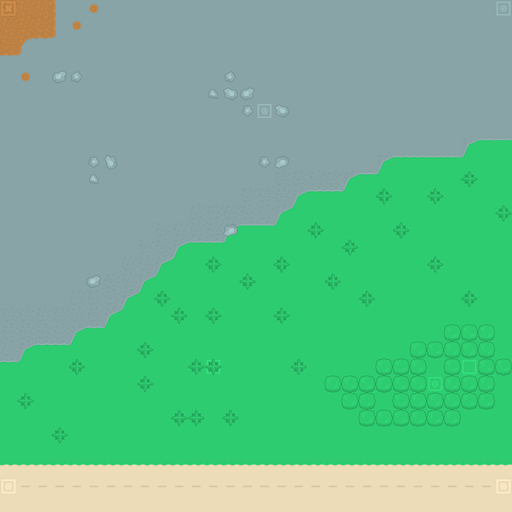
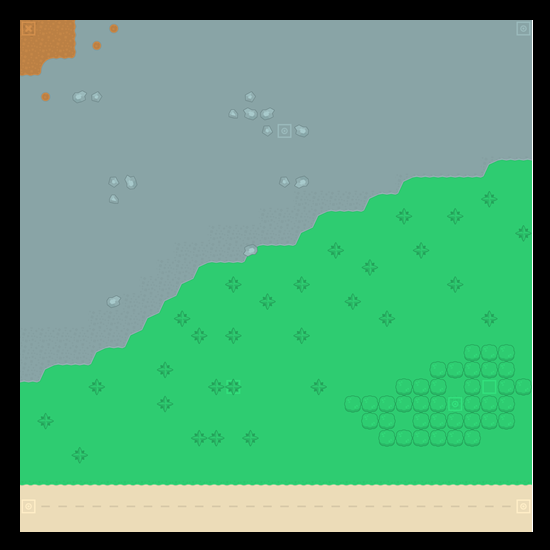
Added minimap frame (boundary)

diff --git a/public/frontend.js b/public/frontend.js
@@ -46,11 +46,20 @@ mapImage.src = "/tiles1.png"
 const charImage = new Image();
 charImage.src = "/character.png"
 
+// no frame
+// const minimapImage = new Image();
+// minimapImage.src = "/minimap_map1_no_frame.png"
+// const MINIMAPSIZE = 512
+// const MINIMAPSIZE_HALF = 256
 
+// with frame
 const minimapImage = new Image();
 minimapImage.src = "/minimap_map1.png"
+const MINIMAPFRAMESIZE = 550
+const MINIMAPFRAMESIZE_HALF = 275
 const MINIMAPSIZE = 512
 const MINIMAPSIZE_HALF = 256
+
 
 // resolution upgrade - retina display gives value 2
 //const devicePixelRatio = window.devicePixelRatio || 1 //defaut 1
@@ -1016,9 +1025,9 @@ function loop(){
       canvas.drawImage(minimapImage, 
         0,
         0,
-        MINIMAPSIZE,MINIMAPSIZE,
-        centerX - MINIMAPSIZE_HALF, centerY - MINIMAPSIZE_HALF, 
-        MINIMAPSIZE,MINIMAPSIZE
+        MINIMAPFRAMESIZE,MINIMAPFRAMESIZE,
+        centerX - MINIMAPFRAMESIZE_HALF, centerY - MINIMAPFRAMESIZE_HALF, 
+        MINIMAPFRAMESIZE,MINIMAPFRAMESIZE
         )
         const MiniMapRatio = MINIMAPSIZE/MAPWIDTH
         const locationOnMinimap = frontEndPlayer.getMinimapLoc(MiniMapRatio)
